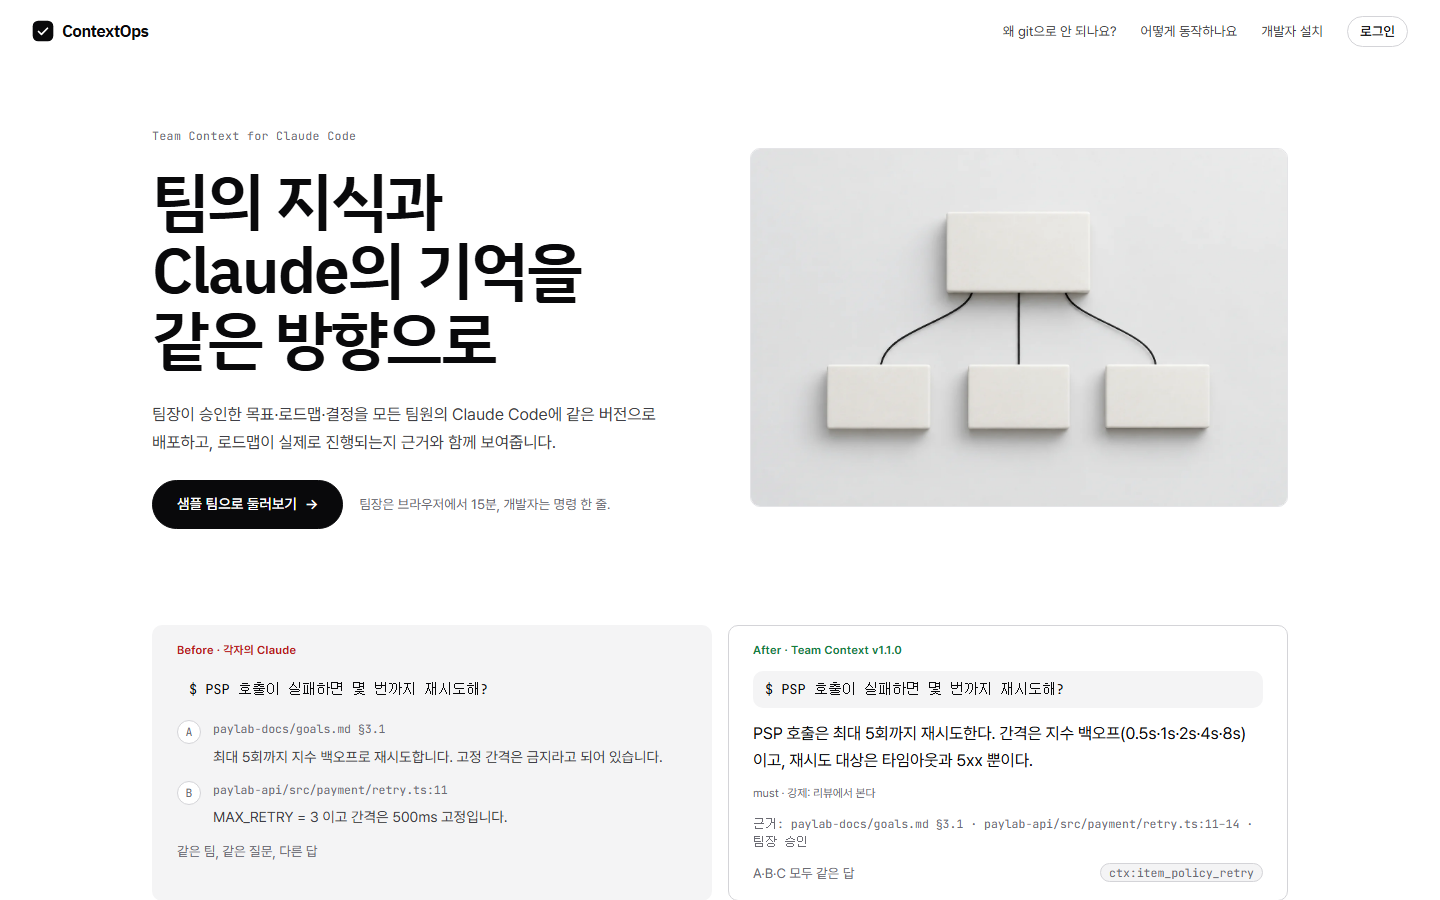
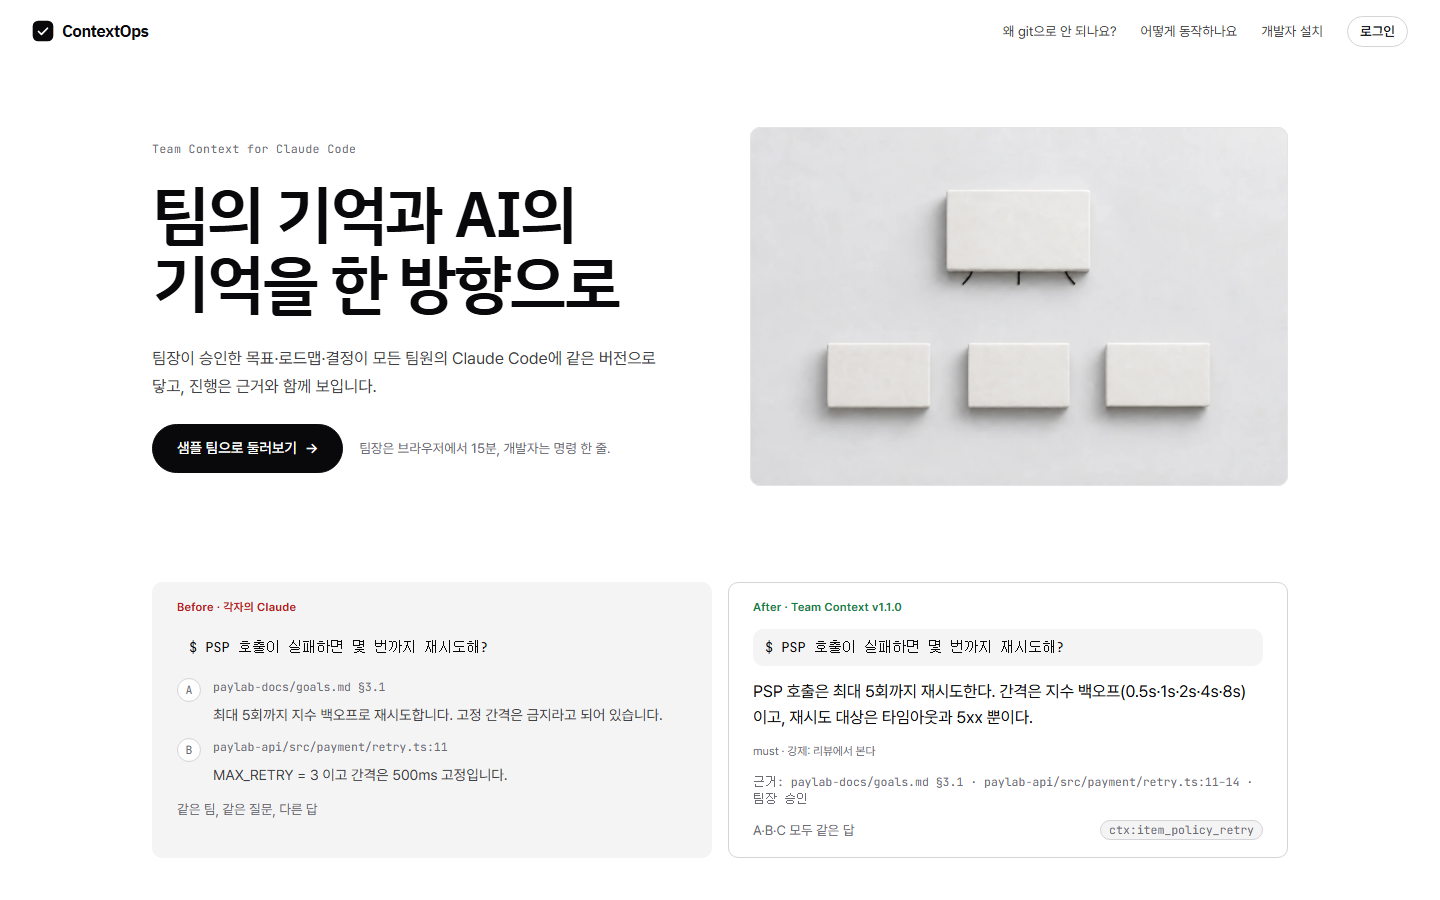
feat(web): 히어로 클레이 스톱모션 — Codex 가 같은 장면으로 뽑은 프레임 5장을 CSS steps 로 돌린다
사용자: 「정적 이미지 한 장뿐이야? 애니메이션은?」 → 셋(스톱모션 · mp4 · Lottie) 중 스톱모션을 골랐다.
codex exec -i hero-4.png 로 실이 위 카드에서 세 기기로 내려오는 중간 장면 4장 + 완성 장면 1장.
- 완성 장면이 바닥(hero-pack.webp) · 1~4번은 ART.heroFrames (13~17KB · 넷 62KB)
- landing.module.css `hero-stop`: 6초 한 바퀴 = 0.8초 × 4 + 완성 2.8초 · steps(1) · nth-child 지연
- 움직임 줄이기: globals.css 한 블록이 끝내면 프레임은 opacity 0 으로 돌아가 완성 장면만 남는다
- 코드로 그린 그림 없음 · 가로 밀림 0 · 원본·시트·GIF 미리보기는 evidence/…/art/

diff --git a/apps/web/src/lib/web/art.ts b/apps/web/src/lib/web/art.ts
@@ -25,6 +25,18 @@ export const ART = {
     alt: '두꺼운 카드 한 장에서 검은 실 세 가닥이 갈라져 아래의 똑같은 카드 셋에 닿는 클레이 그림 — 승인된 Pack 하나가 모든 기기에 같은 버전으로 닿는다',
   },
   /**
+   * 히어로 스톱모션 — 같은 장면을 Codex 가 4장 더 뽑았다(실이 위 카드에서 세 기기로 내려오는 중간 장면 · 실 길이만 다르다).
+   * 완성 장면은 `hero` 자체다. 화면은 이 넷을 `hero` 위에 차례로 띄우고 완성 장면에서 쉰다 (`landing.module.css` 의 `hero-stop`).
+   * alt 는 비어 있다 — 장식 반복이라 `hero` 의 alt 하나면 된다. 비어 있으면 그림 한 장만 선다.
+   * 움직임 줄이기 설정에서는 `globals.css` 의 한 블록이 애니메이션을 끝내 완성 장면만 남는다.
+   */
+  heroFrames: [
+    { src: '/art/hero-frame-1.webp', width: 1536, height: 1024, alt: '' },
+    { src: '/art/hero-frame-2.webp', width: 1536, height: 1024, alt: '' },
+    { src: '/art/hero-frame-3.webp', width: 1536, height: 1024, alt: '' },
+    { src: '/art/hero-frame-4.webp', width: 1536, height: 1024, alt: '' },
+  ] as readonly Artwork[],
+  /**
    * 「어떻게 동작하나요」 세 단계 — 순서는 `HOW_IT_WORKS.steps`(만든다 · 배포한다 · 진행이 보인다)와 같다.
    * 히어로와 같은 시리즈다 — Codex 에 히어로 그림을 `-i` 로 참고로 주고 뽑았다. 단계 수와 다르면 화면은 글로만 선다.
    */

diff --git a/apps/web/src/components/landing.module.css b/apps/web/src/components/landing.module.css
@@ -99,13 +99,32 @@
 .ctaRow :global(.btn-primary)::after { content: '→'; margin-left: var(--sp-2); }
 
 /* 히어로 그림 — 사람이 고른 생성 이미지 (`lib/web/art.ts`). 옅은 회색 바탕이라 괘선 하나로 「액자」를 만든다. */
-.heroArt { margin: 0; }
+.heroArt { margin: 0; position: relative; }
 .heroArt img {
   width: 100%;
   height: auto;
   display: block;
   border-radius: var(--radius);
   border: 1px solid var(--line);
+}
+
+/* 스톱모션 — 실이 내려오는 프레임 넷이 바닥 그림(완성 장면) 위에 차례로 뜬다 (`ART.heroFrames`).
+   한 바퀴 6초: 프레임마다 0.8초, 완성 장면이 2.8초 쉰다. `steps(1)` 이라 페이드 없이 딱딱 바뀐다 — 클레이 스톱모션의 손맛.
+   ★ 움직임 줄이기 — 여기서 다루지 않는다. `globals.css` 의 한 블록이 duration 0.01ms·1회로 끝내면 프레임은 전부
+     기본값(opacity 0)으로 돌아가고 바닥 그림만 남는다. 그래서 완성 장면이 **바닥**이어야 한다 — 순서를 바꾸지 마라. */
+.heroFrame {
+  position: absolute;
+  inset: 0;
+  opacity: 0;
+  animation: hero-stop 6s steps(1) infinite;
+}
+.heroFrame:nth-child(3) { animation-delay: 0.8s; }
+.heroFrame:nth-child(4) { animation-delay: 1.6s; }
+.heroFrame:nth-child(5) { animation-delay: 2.4s; }
+@keyframes hero-stop {
+  0% { opacity: 1; }
+  13.34% { opacity: 0; }
+  100% { opacity: 0; }
 }
 
 /* ── Before/After — 히어로 밑의 두 열 ── */

diff --git a/apps/web/src/components/landing.tsx b/apps/web/src/components/landing.tsx
@@ -337,6 +337,11 @@ function Hero() {
         {/* 그림의 정본은 `lib/web/art.ts` — 사람이 고른 생성 이미지다 (코드로 그린 그림이 아니다 · DESIGN_BRIEF §3 「그림」).
             첫 화면이라 즉시 받는다. 폭·높이는 정본이 준다 — 늦게 떠도 자리가 안 튄다. */}
         <img src={ART.hero.src} width={ART.hero.width} height={ART.hero.height} alt={ART.hero.alt} loading="eager" />
+        {/* 스톱모션 프레임 — 바닥 그림(완성 장면) 위에 차례로 뜬다. 차례·박자는 CSS(`hero-stop` · nth-child 지연)가 정한다.
+            장식 반복이라 alt 없이 aria-hidden 이다. 움직임 줄이기에서는 전부 사라지고 바닥만 남는다. */}
+        {ART.heroFrames.map((f) => (
+          <img key={f.src} className={styles.heroFrame} src={f.src} width={f.width} height={f.height} alt="" aria-hidden="true" loading="eager" />
+        ))}
       </figure>
     </section>
   )

diff --git a/docs/evidence/2026-09-10-redesign/art/prompts-hero-frames.md b/docs/evidence/2026-09-10-redesign/art/prompts-hero-frames.md
@@ -1,0 +1,24 @@
+# Frame prompts
+
+Generated with the built-in image generation tool in edit/reference mode. Frames 1, 3, 4, and 5 reference hero-4.png. Frame 2 references a generated short-thread edit of hero-4.png.
+
+## frame-1.png
+
+Use case: precise-object-edit. Edit target and sole visual reference: hero-4.png. Create one 1536x1024 PNG stop-motion frame of this EXACT scene. Preserve the original image's camera, crop, very light gray background, soft studio lighting, shadows, matte white clay texture, and all four cards exactly unchanged. Top card stays at approximately x560-972 y180-414; bottom cards stay at approximately x218-515, x622-913, x1015-1315 and y618-804. Change ONLY the three black threads and their tiny associated shadows. Thread roots remain at (634,412), (767,412), (902,412). Follow precisely the original reference paths, left curving toward (372,618), center straight to (767,618), right curving toward (1160,618). Preserve original thickness. No text, logos, people, extra objects, frame labels, or collage. Consistency is more important than beauty. Frame 1 of 5: Remove all three threads completely, including their shadows. Only the top card and three bottom cards remain; seamless unchanged gray background between them.
+
+## frame-2.png
+
+Edit this image into frame 2 of a stop-motion sequence. Preserve every card, background, lighting, framing, material, and shadow exactly. Shorten all three existing black thread stubs to 60 percent of their current length, removing only the lower 40 percent and its shadow. They should look like very short emerging thread tips. The central thread should be just 50 pixels long. Do not move the thread roots. No other changes. Output one 1536x1024 PNG, no text.
+
+## frame-3.png
+
+Use case: precise-object-edit. Edit target and sole visual reference: hero-4.png. Create one 1536x1024 PNG stop-motion frame of this EXACT scene. Preserve the original image's camera, crop, very light gray background, soft studio lighting, shadows, matte white clay texture, and all four cards exactly unchanged. Top card stays at approximately x560-972 y180-414; bottom cards stay at approximately x218-515, x622-913, x1015-1315 and y618-804. Change ONLY the three black threads and their tiny associated shadows. Thread roots remain at (634,412), (767,412), (902,412). Follow precisely the original reference paths, left curving toward (372,618), center straight to (767,618), right curving toward (1160,618). Preserve original thickness. No text, logos, people, extra objects, frame labels, or collage. Consistency is more important than beauty. Frame 3 of 5: Keep only the first half of each original thread, starting at the top card. Trim the remainder completely. Each thread ends at approximately y515, halfway down toward its respective bottom card. Left and right follow their original outward curves; center remains vertical. No thread touches a bottom card.
+
+## frame-4.png
+
+Use case: precise-object-edit. Edit target and sole visual reference: hero-4.png. Create one 1536x1024 PNG stop-motion frame of this EXACT scene. Preserve the original image's camera, crop, very light gray background, soft studio lighting, shadows, matte white clay texture, and all four cards exactly unchanged. Top card stays at approximately x560-972 y180-414; bottom cards stay at approximately x218-515, x622-913, x1015-1315 and y618-804. Change ONLY the three black threads and their tiny associated shadows. Thread roots remain at (634,412), (767,412), (902,412). Follow precisely the original reference paths, left curving toward (372,618), center straight to (767,618), right curving toward (1160,618). Preserve original thickness. No text, logos, people, extra objects, frame labels, or collage. Consistency is more important than beauty. Frame 4 of 5: The threads are almost connected. Erase only the last short section of each thread immediately above each bottom card, leaving a small 40-50 pixel gap. Keep the other roughly 75-80 percent of each original thread completely unchanged in its original position. Side threads should reach far outward, ending just above their own bottom cards near x395 and x1140, and center x767. All tips end near y575. These are LONG threads nearly reaching the bottom cards. Do not shorten them to halfway. No other changes.
+
+## frame-5.png
+
+Use case: precise-object-edit. Edit target and sole visual reference: hero-4.png. Create one 1536x1024 PNG stop-motion frame of this EXACT scene. Preserve the original image's camera, crop, very light gray background, soft studio lighting, shadows, matte white clay texture, and all four cards exactly unchanged. Top card stays at approximately x560-972 y180-414; bottom cards stay at approximately x218-515, x622-913, x1015-1315 and y618-804. Change ONLY the three black threads and their tiny associated shadows. Thread roots remain at (634,412), (767,412), (902,412). Follow precisely the original reference paths, left curving toward (372,618), center straight to (767,618), right curving toward (1160,618). Preserve original thickness. No text, logos, people, extra objects, frame labels, or collage. Consistency is more important than beauty. Frame 5 of 5: Keep all three full original black threads, fully connected from the top card to each bottom card. Reproduce the reference image as faithfully as possible; the side threads curve and the center thread is straight.
+
